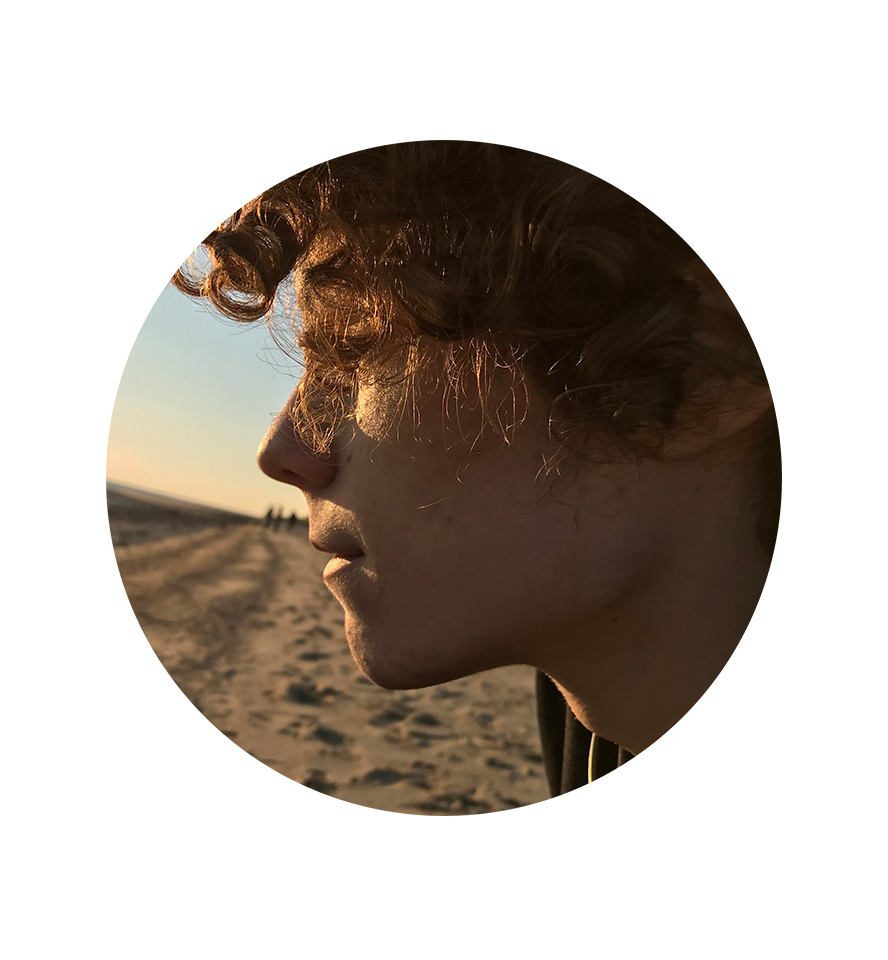
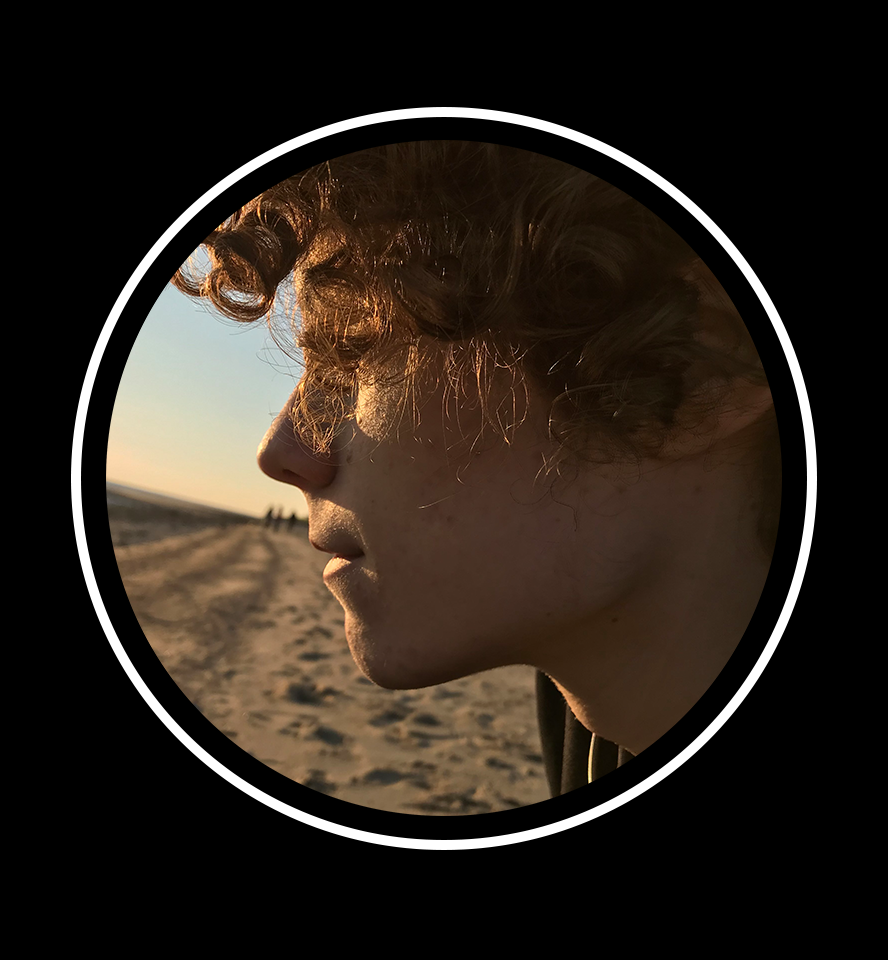
Further visual polishing and added a more finished version of the skills section.

diff --git a/index.html b/index.html
@@ -35,10 +35,10 @@
 
         <div class="header-overlay"></div>
         <div class="header-content text-md-center">
-            <img src="Resources/Images/MyFace.png" alt="Smiley face" height="155" width="150">
+            <img src="Resources/Images/MyFace.png" alt="Smiley face" height="160" width="150">
             <h1>David Kalatzis.</h1>
             <div class="box">
-                <p>Lorem ipsum dolor sit amet consectetur adipisicing elit. Aliquid dolorem dolorum sunt expedita magni officia amet doloremque, quod nulla corrupti nesciunt exercitationem illo quidem optio commodi sequi. Error, vel sapiente!  </p>
+                <p>I am a young skilled programmer who's been developing all kinds of software for years, out of seer enjoyment and curiosity. I've created games using different engines, websites with and without frameworks, a variety of applications for business purposes, bots and a lot more.</p>
             </div>
             <ul class="overview_external">
                 <a href="https://github.com/kidagine" target="_blank"><li><img src='Resources/Images/GithubLogo.png' width="32" height="32" onmouseover="this.src='Resources/Images/GithubLogoHover.png'" onmouseout="this.src='Resources/Images/GithubLogo.png'"></li></a>
@@ -52,9 +52,67 @@
         <div id ="skills-form">
             <form class="form">
                 <h1>Skills</h1>
-                <div class="containerZ">
-                    <div class="skills html">90%</div>
-                  </div>
+                <label>Languages</label>
+                <div style="text-align: center; margin-top: 5%;">
+                    <label style="color: #fff; text-decoration: underline #fff; margin-top: 5%;"> Languages</label>
+                </div>
+                <div style="padding-top:3%">
+                    <label class="skill-label" >C# 80%</label>
+                    <div class="skill-container">
+                        <div class="skills cs"></div>
+                    </div>
+                </div>
+                <div style="padding-top:3%">
+                    <label class="skill-label" >Java 70%</label>
+                    <div class="skill-container">
+                        <div class="skills java"></div>
+                    </div>
+                </div>
+                <div style="padding-top:3%">
+                    <label class="skill-label" >JavaScript 50%</label>
+                    <div class="skill-container">
+                        <div class="skills js"></div>
+                    </div>
+                </div>
+                <div style="padding-top:3%">
+                    <label class="skill-label" >TypeScript 45%</label>
+                    <div class="skill-container">
+                        <div class="skills ts"></div>
+                    </div>
+                </div>
+                <div style="padding-top:3%">
+                    <label class="skill-label" >CSS 60%</label>
+                    <div class="skill-container">
+                        <div class="skills css"></div>
+                    </div>
+                </div>
+                <div style="padding-top:3%">
+                    <label class="skill-label" >HTML 50%</label>
+                    <div class="skill-container">
+                        <div class="skills html"></div>
+                    </div>
+                </div>
+                <div style="text-align: center; margin-top: 5%;">
+                    <label style="color: #fff; text-decoration: underline #fff; margin-top: 5%;"> Engines/Frameworks</label>
+                </div>
+                <div style="padding-top:3%">
+                    <label class="skill-label" >Vue 20%</label>
+                    <div class="skill-container">
+                        <div class="skills vue"></div>
+                    </div>
+                </div>
+                <div style="padding-top:3%">
+                    <label class="skill-label" >Angular 50%</label>
+                    <div class="skill-container">
+                        <div class="skills angular"></div>
+                    </div>
+                </div>
+                <div style="padding-top:3%">
+                    <label class="skill-label" >Unity 80%</label>
+                    <div class="skill-container">
+                        <div class="skills unity"></div>
+                    </div>
+                </div>
             </form>
         </div>
     </div>
@@ -66,7 +124,7 @@
                 <h1>Projects</h1>
                 <div class="row">
                     <div class="row5">
-                        <div class="box-left"> <a href="https://github.com/Skelly-Co/RUST-Web-Application" target="_blank"><img src="https://i.imgur.com/xT4wy9t.jpg" alt="Smiley face" height="260" width="442"> </a> <p class="Angular">ANGULAR</p> <p class="TS">TS</p> <a href="https://github.com/Skelly-Co/RUST-Web-Application" target="_blank"><p class="MainParagraph">RUST | A unique website containing a shop with a cart along with the vision page of the company </p><p class="SubParagraph">Made for the RUST fashion company.</p></a></div>
+                        <div class="box-left"> <a href="https://github.com/Skelly-Co/RUST-Web-Application" target="_blank"><img src="https://i.imgur.com/xT4wy9t.jpg" alt="Smiley face" height="260" width="442"> </a> <p class="Angular">ANGULAR</p> <p class="TS">TS</p> <a href="https://github.com/Skelly-Co/RUST-Web-Application" target="_blank"><p class="MainParagraph">RUST | A unique website in which users can shop for clothing and get a feeling for the company's vision </p><p class="SubParagraph">Made for the RUST fashion company.</p></a></div>
                         <div class="box-right"> <a href="https://github.com/kidagine/FullBodyAwarenessFPS" target="_blank"><img src="https://i.imgur.com/vFbQDM0.png" alt="Smiley face" height="260" width="442"> </a> <p class="Unity">UNITY</p> <p class="CS">C#</p> <a href="https://github.com/kidagine/FullBodyAwarenessFPS" target="_blank"><p class="MainParagraph">FullBodyAwareness FPS | Unity prototype showcasing an fps controller with full body awareness</p></a> <p class="SubParagraph">Contains an inverse kinematics system for feet and hands.</p></div>
                     </div>
                     <div class="row5">
@@ -78,8 +136,8 @@
                         <div class="box-right"> <a href="https://github.com/kidagine/AttendanceAutomationSystem" target="_blank"><img src="https://i.imgur.com/64RaEmR.jpg" alt="Smiley face" height="260" width="442"> </a> <p class="Java">JAVA</p> <p class="CSS">CSS</p> <a href="https://github.com/kidagine/AttendanceAutomationSystem" target="_blank"><p class="MainParagraph">Belman | An application which is designed for tracking the progress of placed orders</p></a> <p class="SubParagraph">Created for the Belman company.</p></div>
                     </div>
                     <div class="row5">
-                        <div class="box-left"> <a href="https://github.com/kidagine/MusicPlayerApp" target="_blank"><img src="Resources/Images/MusicPlayer.png" alt="Smiley face" height="260" width="442"> </a> <p class="Java">JAVA</p> <p class="CSS">CSS</p><a href="https://github.com/kidagine/MusicPlayerApp" target="_blank"><p class="MainParagraph">Beatbone | A stylized music player application</p></a><p class="SubParagraph">Contains a variety of expected behaviours from music players.</p></div>
-                        <div class="box-right"> <a href="https://github.com/kidagine/MoviePlayerApp" target="_blank"><img src="Resources/Images/MoviePlayer.png" alt="Smiley face" height="260" width="442"> </a> <p class="Java">JAVA</p> <p class="CSS">CSS</p> <a href="https://github.com/kidagine/MoviePlayerApp" target="_blank"><p class="MainParagraph">Bonereel | A movie player application created for categorizing and watching videos </p></a> <p class="SubParagraph">Has the capability of choosing between different media players</p></div>
+                        <div class="box-left"> <a href="https://github.com/kidagine/MusicPlayerApp" target="_blank"><img src="Resources/Images/MusicPlayer.png" alt="Smiley face" height="260" width="442"> </a> <p class="Java">JAVA</p> <p class="CSS">CSS</p><a href="https://github.com/kidagine/MusicPlayerApp" target="_blank"><p class="MainParagraph">Beatbone | A stylized music player application</p></a><p class="SubParagraph">Contains a variety of behaviours included in music players.</p></div>
+                        <div class="box-right"> <a href="https://github.com/kidagine/MoviePlayerApp" target="_blank"><img src="Resources/Images/MoviePlayer.png" alt="Smiley face" height="260" width="442"> </a> <p class="Java">JAVA</p> <p class="CSS">CSS</p> <a href="https://github.com/kidagine/MoviePlayerApp" target="_blank"><p class="MainParagraph">Bonereel | A movie player application created for categorizing and watching videos </p></a> <p class="SubParagraph">Has the capability of choosing between different media player, or its own.</p></div>
                     </div>
                 </div>
             </form>
@@ -90,10 +148,10 @@
     <div id="contact">
         <div id ="contact-form">
             <form class="form">
-                <h1>CONTACT</h1>
-                <div class="contact"></div>
-                <p>Have a question or want to work together?</p>
-                <a href="mailto:davidkalatzis@gmail.com" id="submit">Send email</a>
+            <h1>CONTACT</h1>
+            <div class="contact"></div>
+            <p>Have a question or want to work together?</p>
+            <a href="mailto:davidkalatzis@gmail.com" id="submit">Send email</a>
             </form>
         </div>
     </div>

diff --git a/Css/style.css b/Css/style.css
@@ -135,10 +135,7 @@ body{
     display:flex;
     align-items:center;
     color:#fff;
-}
-
-.overview h1 span{
-    color: #e4007c;
+    font-weight: 200;
 }
   
 .container{
@@ -154,7 +151,7 @@ body{
     padding-right: 50px;
     padding-left: 50px;
     background: #000;
-    border: 3px solid #fff;
+    border: 1px solid #fff;
     opacity: 0.95;
 }
   
@@ -191,6 +188,7 @@ body{
 .header-content h1{
     font-size:50px;
     margin-bottom:30px;
+    font-weight: 100;
 }
   
 .header-content p{
@@ -225,32 +223,79 @@ body{
 /* Overview End */
 
 /* Skills Start */
-.containerZ {
+
+.skill-label{
+    color: #fff;
+    font-weight: 200;
+    font-family: 'Montserrat';
+    margin-bottom: 2%;
+    padding-top: 20%;
+}
+
+.skill-container {
+    margin:auto;
     width: 100%;
-    background-color: #ddd;
+    background-color: rgb(37, 37, 37);
   }
   
+  .cs{
+    width: 80%; 
+  }
+  .java{
+    width: 70%; 
+  }
+  .js{
+    width: 50%; 
+  }
+  .ts{
+    width: 45%; 
+  }
+  .angular{
+    width: 50%; 
+  }
+  .css{
+    width: 60%; 
+  }
+  .html{
+    width: 50%;
+  }
+  .vue{
+    width: 20%;
+  }
+  .unity{
+    width: 80%;
+  }
+
   .skills {
     text-align: right;
-    padding-top: 10px;
-    padding-bottom: 10px;
-    color: white;
+    padding-top: 1px;
+    padding-bottom: 1px;
+    color: #000;
+    background-color: #fff;
   }
 #skills-form{
     background-color: #000;
-    border-top:  3px solid #fff;
+    border-top: 2px solid #fff;
     width:950px;
-    height:620px;
+    height:780px;
     margin: 0 auto;
     margin-top: 5%;
     margin-bottom: 5%;
     background-size:25px 25px;
 }
 #skills-form h1{
+    font-family: 'Montserrat';
     color: #fff;
-    text-align: center;
-    margin-bottom: 20px;
-    margin-top: 5px;
+    text-align: left;
+    font-weight: 200;
+    margin-left: 20px;
+    margin-top: 20px;
+}
+@media(max-width:960px){
+    .skill-container{
+        padding-right:3rem;
+        padding-left:3rem;
+    }
 }
 /* Skills End */
 
@@ -266,6 +311,7 @@ body{
 }
 #projects-form h1{
     color: #fff;
+    font-weight: 200;
     text-align: left;
     margin-left: 20px;
     margin-top: 20px;
@@ -295,7 +341,7 @@ body{
 	height: 430px;
     background-color: #000;
     margin-bottom: 3%;
-    box-shadow: 2px 2px 5px 2px rgb(8, 8, 8);
+    box-shadow: 2px 2px 5px 2px rgb(14, 14, 14);
 }
 
 .row5 p.Unity{
@@ -566,7 +612,7 @@ textarea{
 #footer{
     width: 100%;
     height: 125px;
-    background: #171821;
+    color: #000;
     text-align: center;
 }
 
